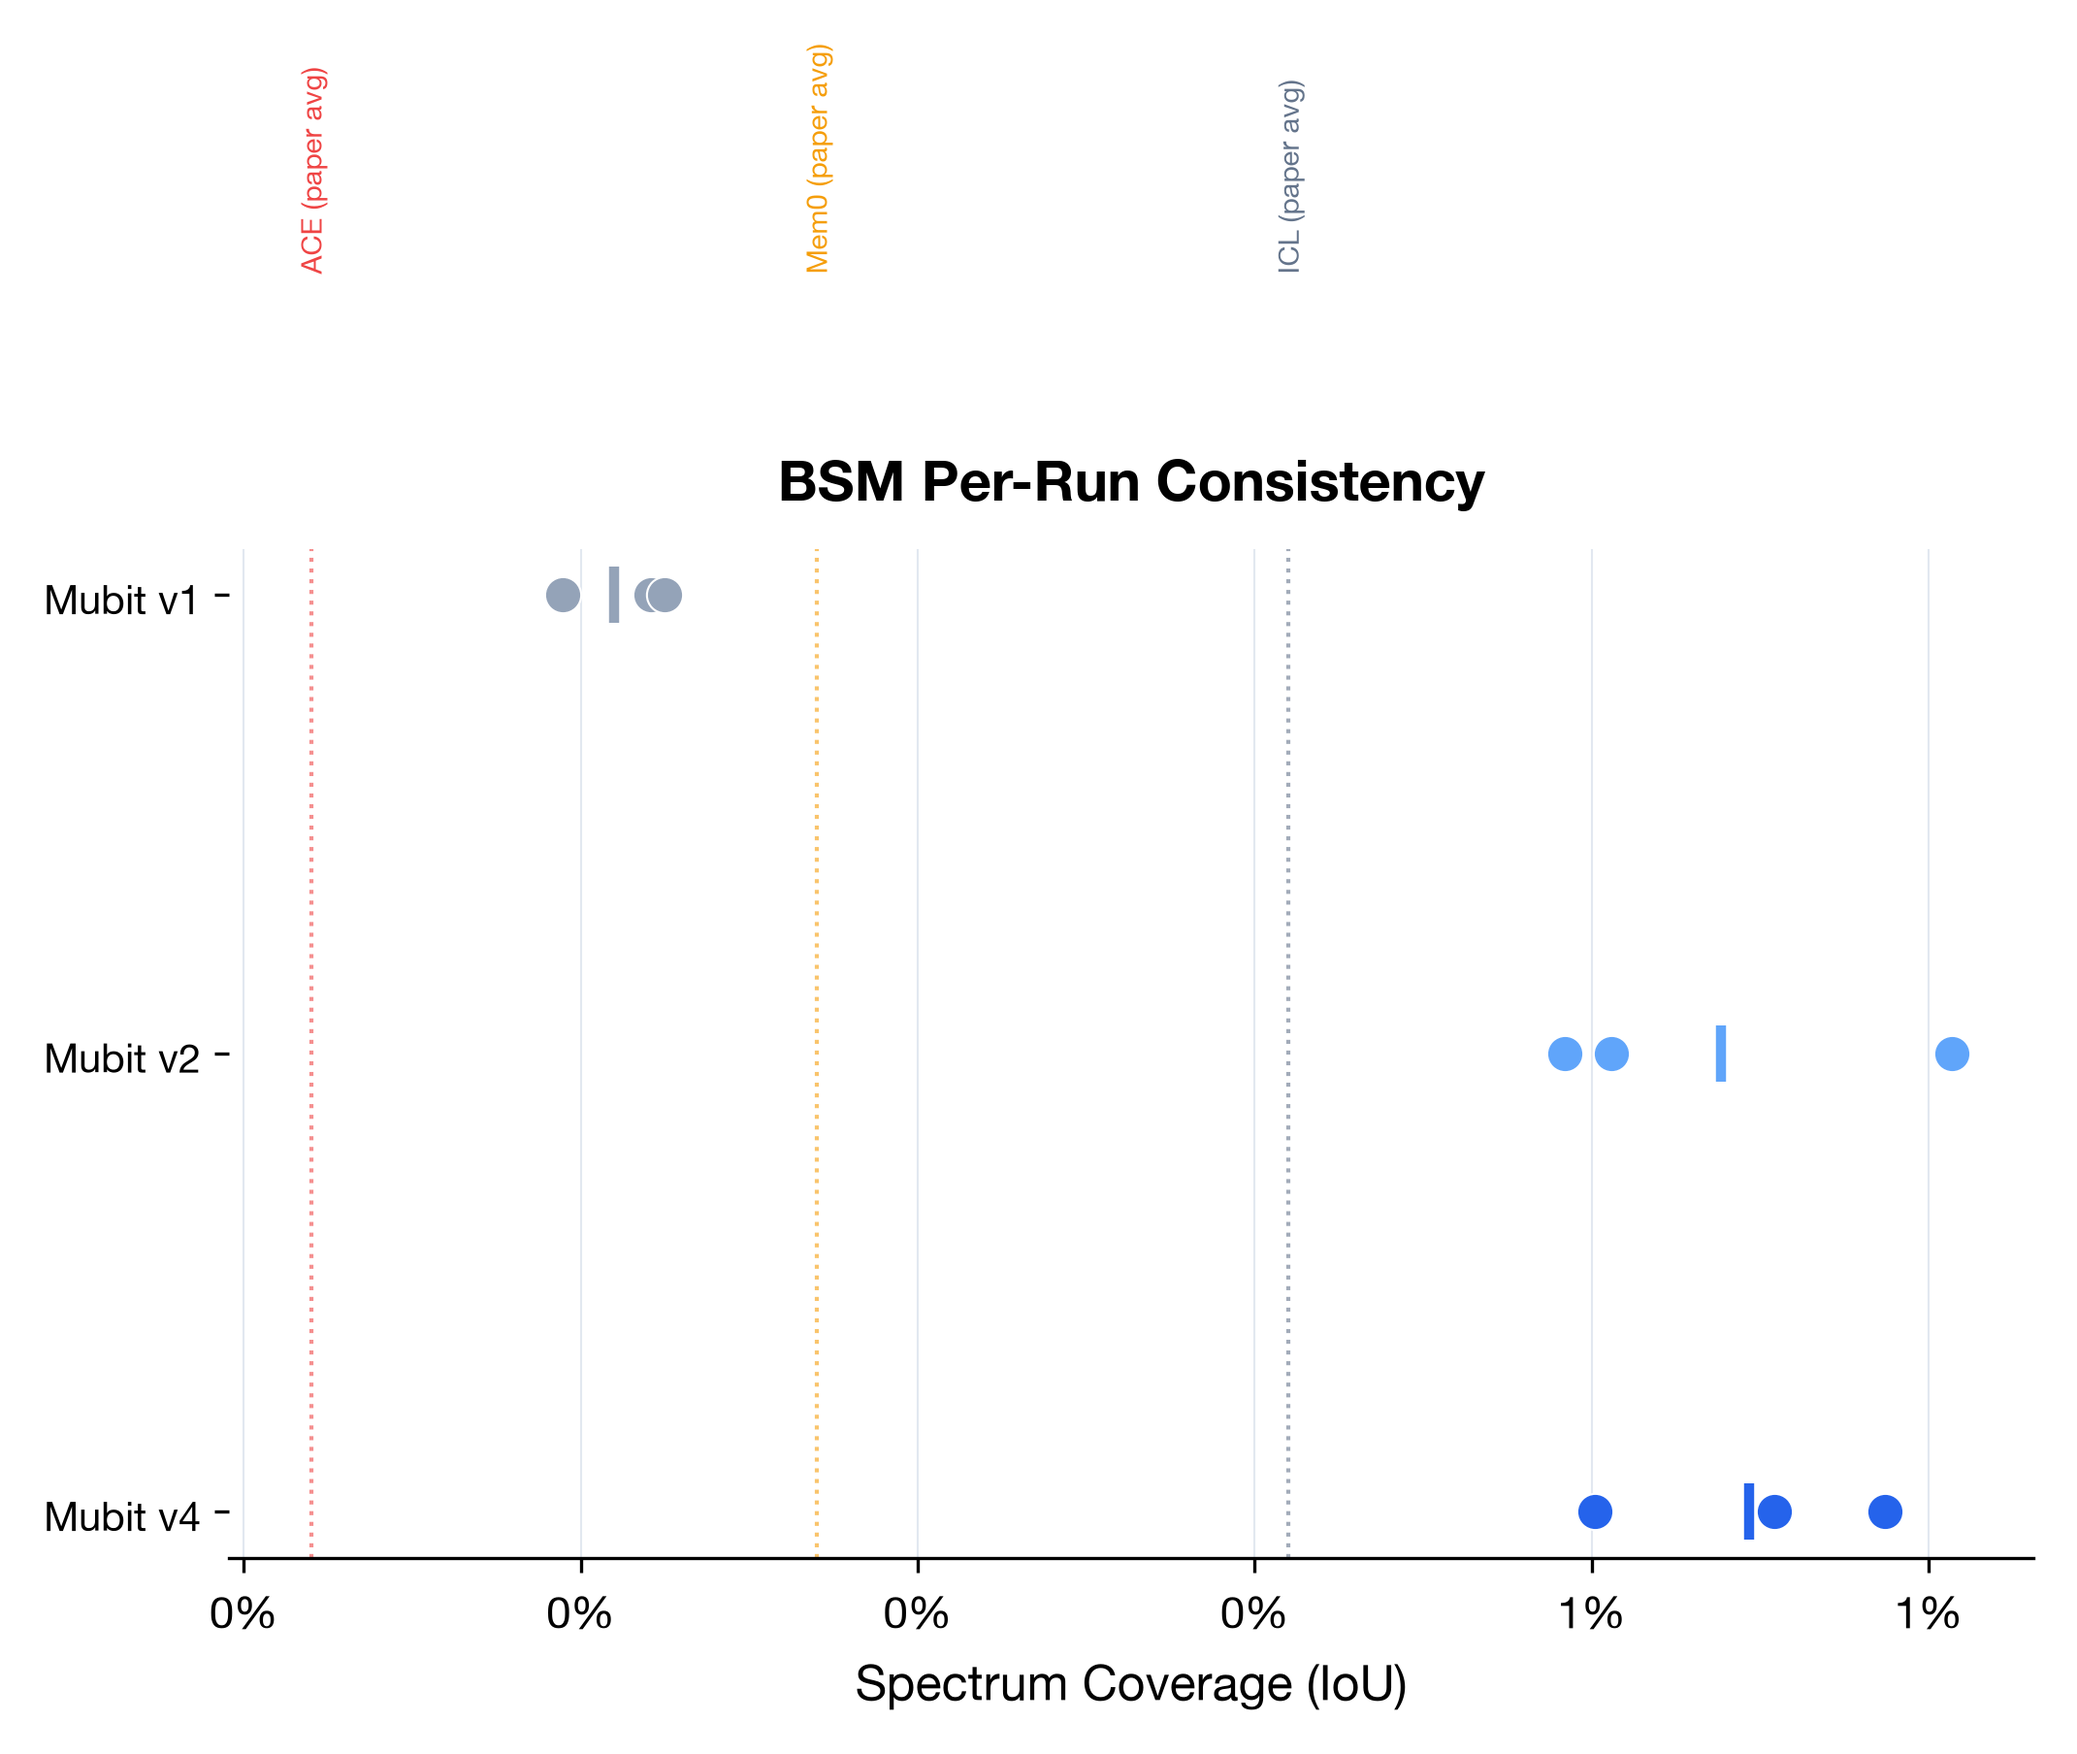
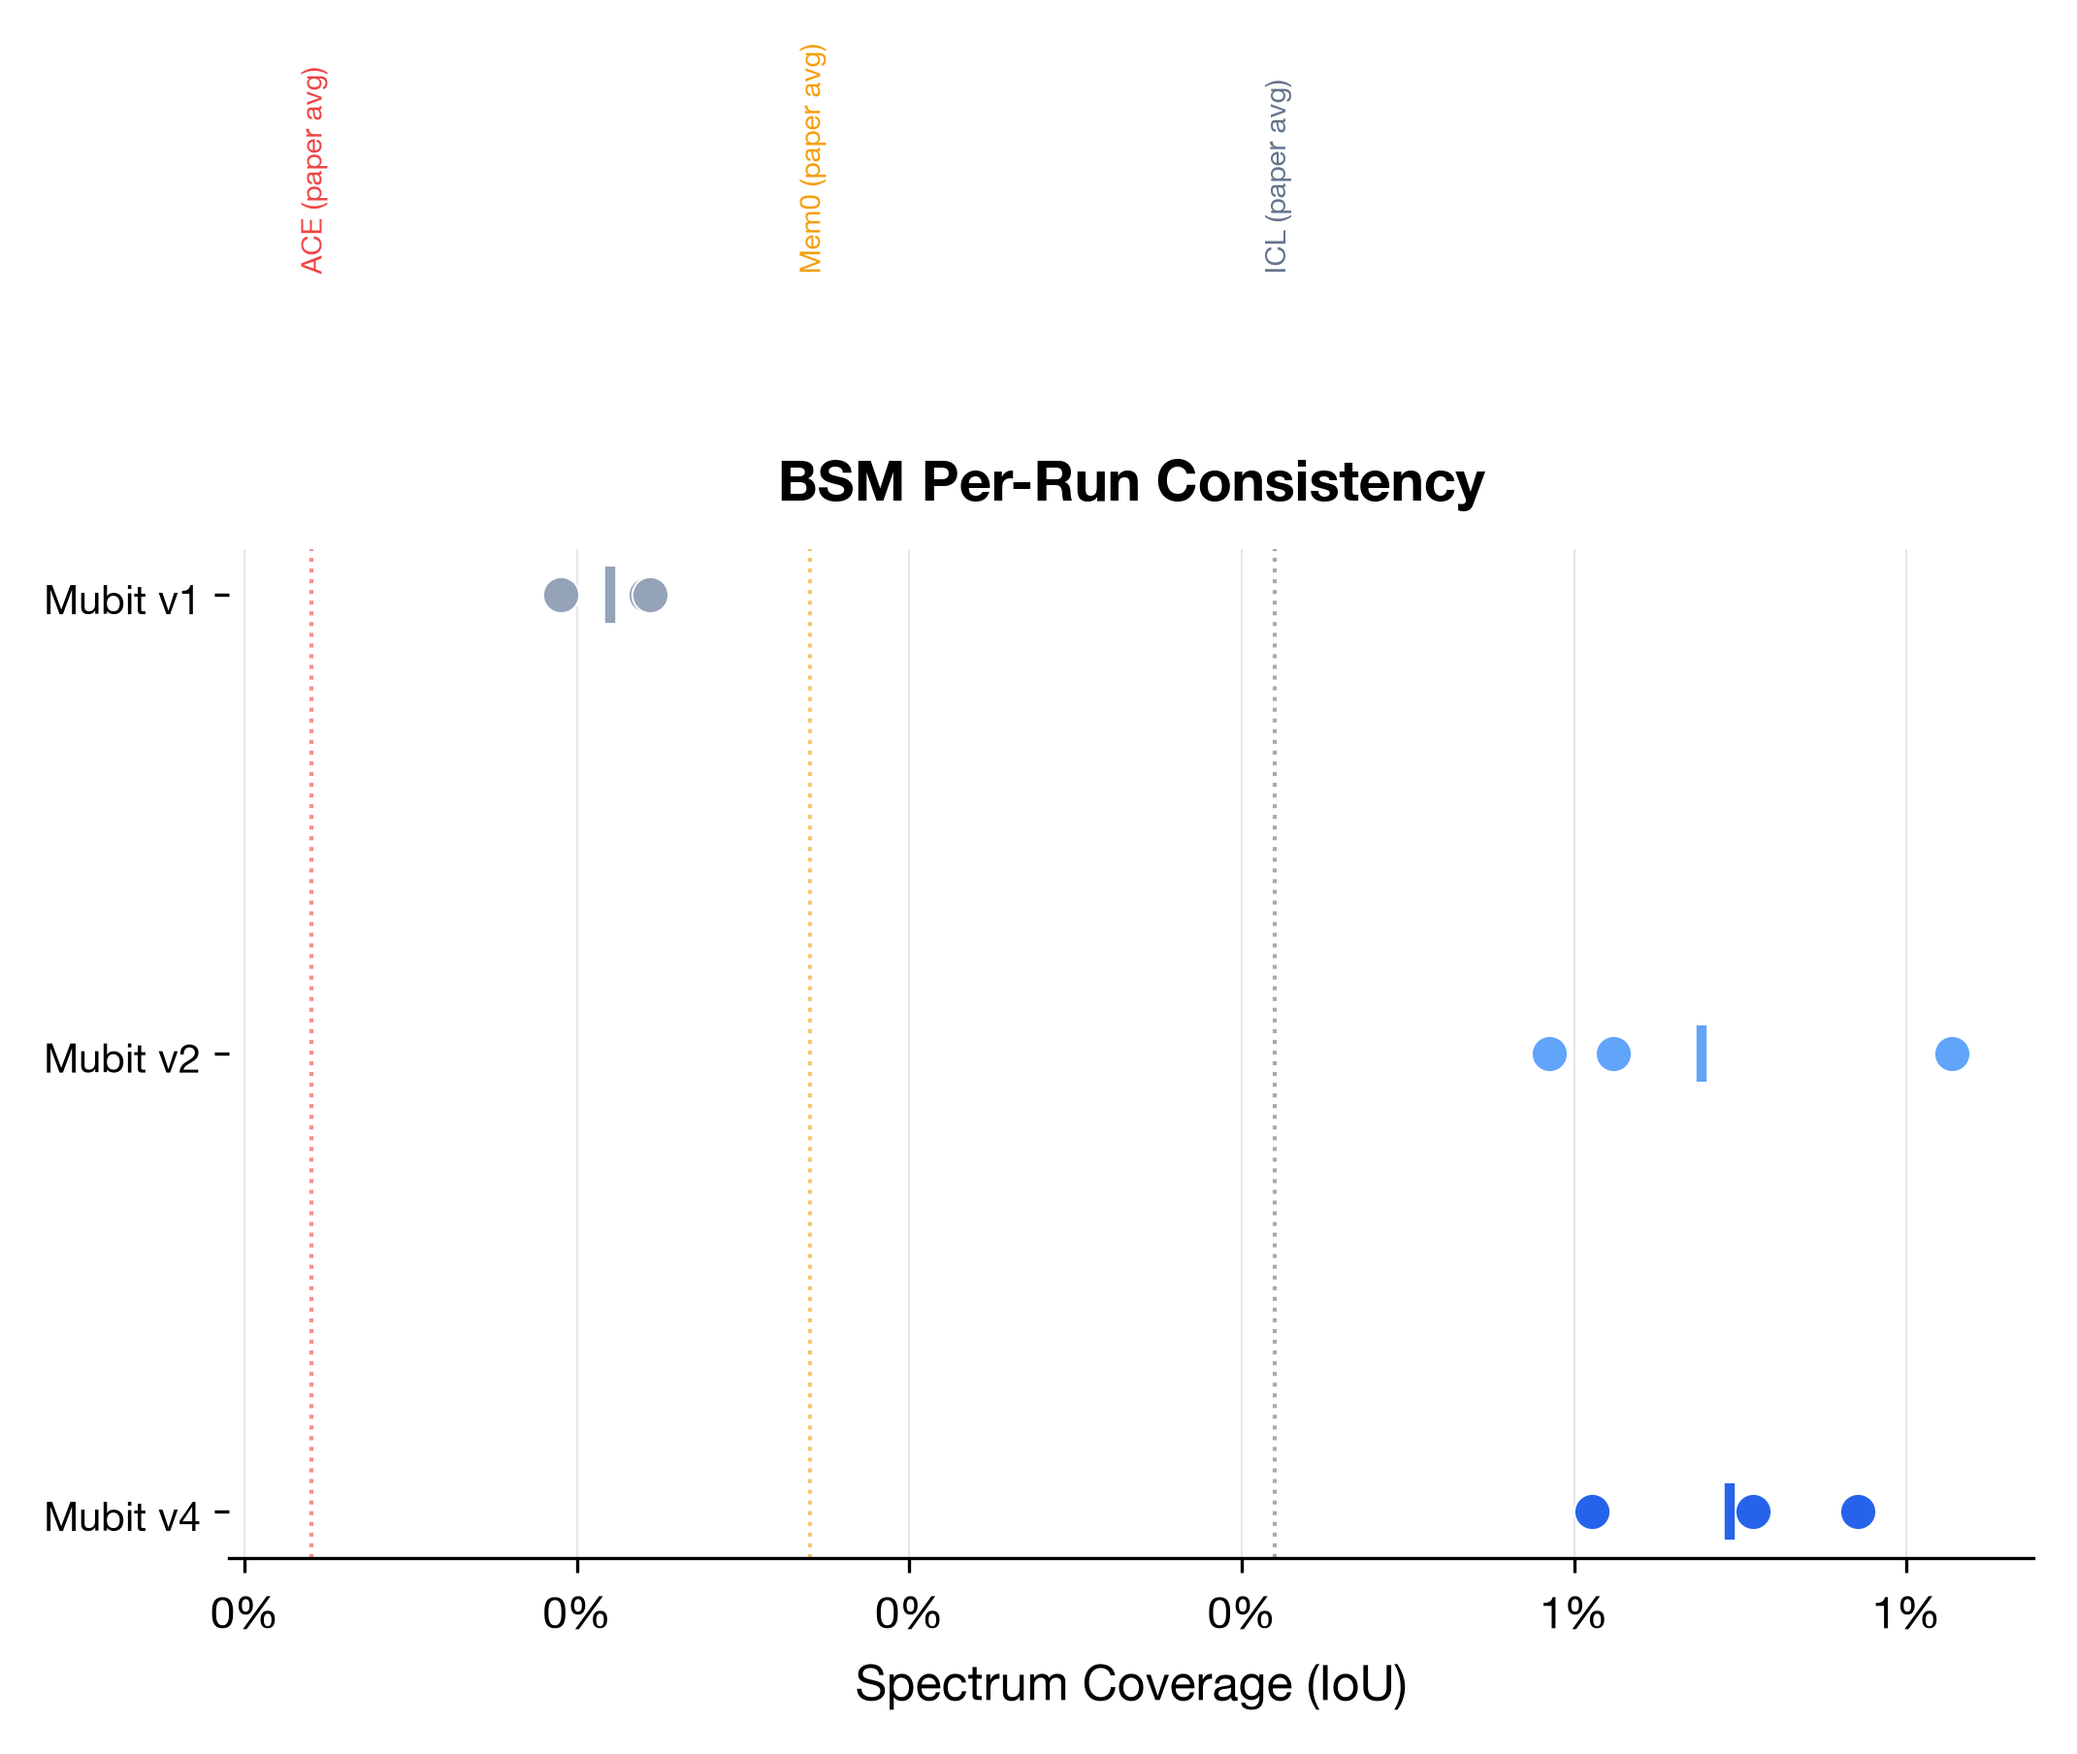
feat(poker): +10.8% gain with session-stateful + Mubit opponent observations
Combined two memory mechanisms:
1. IMPLICIT session memory: conversation history persists across hands
   (like ICL's provider_native_stateful). Model calibrates play over session.
2. EXPLICIT opponent observations from Mubit: behavior patterns the model
   can't see in its own conversation history.

Results (120 hands, 3 runs):
  Run 1: +22.5 cumulative gain, +58 chips
  Run 2: +11.5 cumulative gain, +47 chips
  Run 3: +5.0 cumulative gain, +40.5 chips
  Normalized gain: +10.8%
  Score mean: 0.404 (highest of all versions)
  Positive hands: 47/120, Negative: 18/120

Full poker evolution:
  V5  (raw obs):      -8.9%
  V6  (strategy):     -5.9%
  V10 (minimal obs):  +3.9%
  V11 (session+Mubit): +10.8%  ← current best

diff --git a/README.md b/README.md
@@ -94,17 +94,18 @@ Measured empirically: **97.3% token reduction** on BSM (5.5M tokens saved), **92
 
 ## Honest Limitations
 
-### Exploitable Poker: +3.9% gain
+### Exploitable Poker: +10.8% gain
 
-Poker is the hardest task for memory — cards are dealt randomly each hand, so there's less persistent signal to learn than in BSM or Database. After iterating through three lesson-distillation strategies:
+Poker is the hardest task for memory — cards are dealt randomly each hand. After iterating through four approaches:
 
 | Version | Approach | Gain |
 |---|---|---|
 | V5 | Raw observations ("Tom called with 27o") | −8.9% |
 | V6 | Strategy directives ("fold trash, tighten up") | −5.9% |
-| **V10** | **Minimal opponent observations (inform, don't constrain)** | **+3.9%** |
+| V10 | Minimal opponent observations (inform, don't constrain) | +3.9% |
+| **V11** | **Session-stateful + Mubit opponent observations** | **+10.8%** |
 
-The breakthrough: don't tell the model HOW to play — it already knows poker. Just provide what it can't see: the opponent's behavior patterns ("went to showdown with weak hand", "tends to fold to aggression"). The model uses this information naturally without overcorrecting its play. Memory should **inform**, not **constrain**.
+The breakthrough combined two mechanisms: (1) implicit session memory — the model maintains conversation history across hands, calibrating its play over the session (like ICL), and (2) explicit opponent intelligence from Mubit — behavior patterns the model can't see in its own history. 47/120 hands positive, only 18 negative.
 
 ---
 
